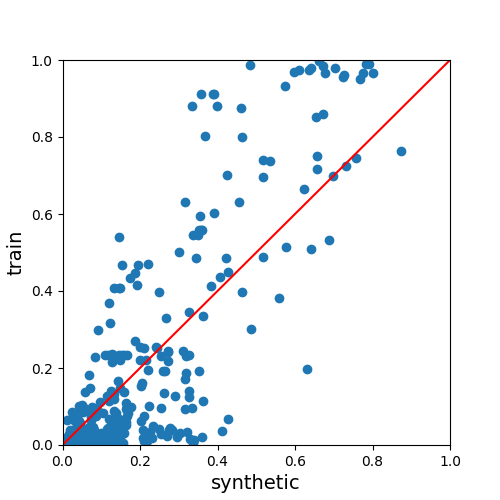
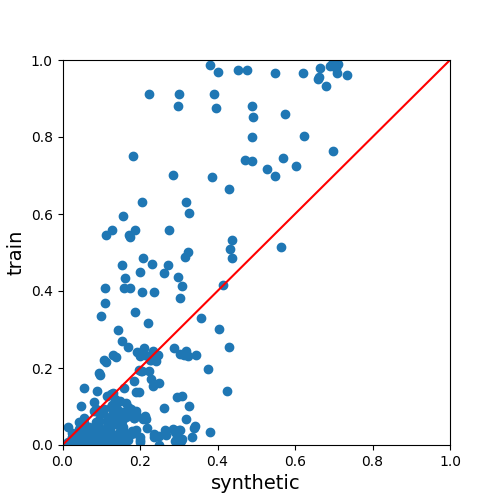
update model inputs

diff --git a/mc_gan/mc_wgan_gp_inference.py b/mc_gan/mc_wgan_gp_inference.py
@@ -34,7 +34,7 @@ except:
 run = wandb.init(
     project="HDistVAE", 
     entity="anseunghwan",
-    tags=['medGAN', 'inference'],
+    tags=['MC-WGAN-GP', 'inference'],
 )
 #%%
 import argparse
@@ -45,7 +45,7 @@ def get_args(debug):
                         help='model number')
     parser.add_argument('--dataset', type=str, default='census', 
                         help='Dataset options: mnist, census, survey')
-    parser.add_argument('--mc', default=True, type=str2bool,
+    parser.add_argument('--mc', default=True, type=bool,
                         help='Multi-Categorical setting')
     
     if debug:
@@ -58,8 +58,8 @@ def main():
     config = vars(get_args(debug=False)) # default configuration
     
     """model load"""
-    model_name = lambda x: f'mc_medGAN_{config["dataset"]}' if x else f'medGAN_{config["dataset"]}'
-    artifact = wandb.use_artifact(f'anseunghwan/HDistVAE/{model_name(config["mc"])}:v{config["num"]}', type='model')
+    model_name = f'mc_Gumbel_{config["dataset"]}'
+    artifact = wandb.use_artifact(f'anseunghwan/HDistVAE/{model_name}:v{config["num"]}', type='model')
     for key, item in artifact.metadata.items():
         config[key] = item
     model_dir = artifact.download()
@@ -68,59 +68,37 @@ def main():
     device = torch.device('cuda:0') if torch.cuda.is_available() else torch.device('cpu')
     config["cuda"] = torch.cuda.is_available()
     wandb.config.update(config)
-    
-    model_module = importlib.import_module('module.model')
-    importlib.reload(model_module)
-
-    generator = getattr(model_module, 'medGANGenerator')(
-        config["embedding_dim"]).to(device)
-    
-    try:
-        generator.load_state_dict(
-            torch.load(
-                model_dir + '/' + [x for x in os.listdir(model_dir) if x.endswith('pth')][0]))
-    except:
-        generator.load_state_dict(
-            torch.load(
-                model_dir + '/' + [x for x in os.listdir(model_dir) if x.endswith('pth')][0], 
-                map_location=torch.device('cpu')))
-    generator.eval()
     #%%
     out = build_dataset(config)
     dataset = out[0]
+    OutputInfo_list = out[3]
 
     if config["dataset"] == "mnist": config["p"] = 784
     else: config["p"] = dataset.p
-    
-    OutputInfo_list = None
-    if config["mc"]:
-        OutputInfo_list = out[3]
     #%%
-    auto_model_module = importlib.import_module('module.model_auto')
-    importlib.reload(auto_model_module)
-    auto_model_name = lambda x: f'dec_mc_medGAN_{config["dataset"]}' if x else f'dec_medGAN_{config["dataset"]}'
-    artifact = wandb.use_artifact(f'anseunghwan/HDistVAE/{auto_model_name(config["mc"])}:v{config["seed"]}', type='model')
-    model_dir = artifact.download()
-    
-    autoencoder = getattr(auto_model_module, 'AutoEncoder')(
-        config, 
-        config["hidden_dims"], 
-        list(reversed(config["hidden_dims"])), 
-        OutputInfo_list=OutputInfo_list).to(device)
-    
+    model_module = importlib.import_module('module.model')
+    importlib.reload(model_module)
+
+    generator = getattr(model_module, 'Generator')(
+        config["embedding_dim"], 
+        [x.dim for x in OutputInfo_list], 
+        hidden_sizes=config["hidden_dims_gen"],
+        bn_decay=0.1).to(device)
+    #%%
     try:
-        autoencoder.decoder.load_state_dict(
+        generator.load_state_dict(
             torch.load(
-                model_dir + '/' + [x for x in os.listdir(model_dir) if x.endswith('pth')][0]))
+                model_dir + '/' + [x for x in os.listdir(model_dir) if x.endswith('pth') and x.startswith('generator')][0]))
     except:
-        autoencoder.decoder.load_state_dict(
+        generator.load_state_dict(
             torch.load(
-                model_dir + '/' + [x for x in os.listdir(model_dir) if x.endswith('pth')][0], 
+                model_dir + '/' + [x for x in os.listdir(model_dir) if x.endswith('pth') and x.startswith('generator')][0], 
                 map_location=torch.device('cpu')))
-    autoencoder.eval()
+        
+    generator.eval()
     #%%
     count_parameters = lambda model: sum(p.numel() for p in model.parameters())
-    num_params = count_parameters(generator) + count_parameters(autoencoder.decoder)
+    num_params = count_parameters(generator)
     print("Number of Parameters:", num_params)
     wandb.log({'Number of Parameters': num_params})
     #%%
@@ -141,13 +119,13 @@ def main():
     with torch.no_grad():
         for _ in range(steps):
             z = torch.randn(config["batch_size"], config["embedding_dim"]).to(device) 
-            data.append(autoencoder.decoder(generator(z), training=False))
+            data.append(generator(z, training=False))
     data = torch.cat(data, dim=0)
     data = data[:n, :]
     
     syndata = postprocess(data, OutputInfo_list, colnames, discrete_dicts, discrete_dicts_reverse)
     #%%
-    metrics = evaluate(syndata, train, test, config, model_name(config["mc"]))
+    metrics = evaluate(syndata, train, test, config, model_name)
     
     print(f"KL: {metrics.KL:.3f}")
     wandb.log({'KL': metrics.KL})

diff --git a/mc_gan/mc_gumbel_inference.py b/mc_gan/mc_gumbel_inference.py
@@ -34,7 +34,7 @@ except:
 run = wandb.init(
     project="HDistVAE", 
     entity="anseunghwan",
-    tags=['medGAN', 'inference'],
+    tags=['MC-Gumbel', 'inference'],
 )
 #%%
 import argparse
@@ -45,7 +45,7 @@ def get_args(debug):
                         help='model number')
     parser.add_argument('--dataset', type=str, default='census', 
                         help='Dataset options: mnist, census, survey')
-    parser.add_argument('--mc', default=True, type=str2bool,
+    parser.add_argument('--mc', default=True, type=bool,
                         help='Multi-Categorical setting')
     
     if debug:
@@ -58,8 +58,8 @@ def main():
     config = vars(get_args(debug=False)) # default configuration
     
     """model load"""
-    model_name = lambda x: f'mc_medGAN_{config["dataset"]}' if x else f'medGAN_{config["dataset"]}'
-    artifact = wandb.use_artifact(f'anseunghwan/HDistVAE/{model_name(config["mc"])}:v{config["num"]}', type='model')
+    model_name = f'mc_Gumbel_{config["dataset"]}'
+    artifact = wandb.use_artifact(f'anseunghwan/HDistVAE/{model_name}:v{config["num"]}', type='model')
     for key, item in artifact.metadata.items():
         config[key] = item
     model_dir = artifact.download()
@@ -68,59 +68,37 @@ def main():
     device = torch.device('cuda:0') if torch.cuda.is_available() else torch.device('cpu')
     config["cuda"] = torch.cuda.is_available()
     wandb.config.update(config)
-    
-    model_module = importlib.import_module('module.model')
-    importlib.reload(model_module)
-
-    generator = getattr(model_module, 'medGANGenerator')(
-        config["embedding_dim"]).to(device)
-    
-    try:
-        generator.load_state_dict(
-            torch.load(
-                model_dir + '/' + [x for x in os.listdir(model_dir) if x.endswith('pth')][0]))
-    except:
-        generator.load_state_dict(
-            torch.load(
-                model_dir + '/' + [x for x in os.listdir(model_dir) if x.endswith('pth')][0], 
-                map_location=torch.device('cpu')))
-    generator.eval()
     #%%
     out = build_dataset(config)
     dataset = out[0]
+    OutputInfo_list = out[3]
 
     if config["dataset"] == "mnist": config["p"] = 784
     else: config["p"] = dataset.p
-    
-    OutputInfo_list = None
-    if config["mc"]:
-        OutputInfo_list = out[3]
     #%%
-    auto_model_module = importlib.import_module('module.model_auto')
-    importlib.reload(auto_model_module)
-    auto_model_name = lambda x: f'dec_mc_medGAN_{config["dataset"]}' if x else f'dec_medGAN_{config["dataset"]}'
-    artifact = wandb.use_artifact(f'anseunghwan/HDistVAE/{auto_model_name(config["mc"])}:v{config["seed"]}', type='model')
-    model_dir = artifact.download()
-    
-    autoencoder = getattr(auto_model_module, 'AutoEncoder')(
-        config, 
-        config["hidden_dims"], 
-        list(reversed(config["hidden_dims"])), 
-        OutputInfo_list=OutputInfo_list).to(device)
-    
+    model_module = importlib.import_module('module.model')
+    importlib.reload(model_module)
+
+    generator = getattr(model_module, 'Generator')(
+        config["embedding_dim"], 
+        [x.dim for x in OutputInfo_list], 
+        hidden_sizes=config["hidden_dims_gen"],
+        bn_decay=0.1).to(device)
+    #%%
     try:
-        autoencoder.decoder.load_state_dict(
+        generator.load_state_dict(
             torch.load(
-                model_dir + '/' + [x for x in os.listdir(model_dir) if x.endswith('pth')][0]))
+                model_dir + '/' + [x for x in os.listdir(model_dir) if x.endswith('pth') and x.startswith('generator')][0]))
     except:
-        autoencoder.decoder.load_state_dict(
+        generator.load_state_dict(
             torch.load(
-                model_dir + '/' + [x for x in os.listdir(model_dir) if x.endswith('pth')][0], 
+                model_dir + '/' + [x for x in os.listdir(model_dir) if x.endswith('pth') and x.startswith('generator')][0], 
                 map_location=torch.device('cpu')))
-    autoencoder.eval()
+        
+    generator.eval()
     #%%
     count_parameters = lambda model: sum(p.numel() for p in model.parameters())
-    num_params = count_parameters(generator) + count_parameters(autoencoder.decoder)
+    num_params = count_parameters(generator)
     print("Number of Parameters:", num_params)
     wandb.log({'Number of Parameters': num_params})
     #%%
@@ -141,13 +119,13 @@ def main():
     with torch.no_grad():
         for _ in range(steps):
             z = torch.randn(config["batch_size"], config["embedding_dim"]).to(device) 
-            data.append(autoencoder.decoder(generator(z), training=False))
+            data.append(generator(z, training=False))
     data = torch.cat(data, dim=0)
     data = data[:n, :]
     
     syndata = postprocess(data, OutputInfo_list, colnames, discrete_dicts, discrete_dicts_reverse)
     #%%
-    metrics = evaluate(syndata, train, test, config, model_name(config["mc"]))
+    metrics = evaluate(syndata, train, test, config, model_name)
     
     print(f"KL: {metrics.KL:.3f}")
     wandb.log({'KL': metrics.KL})

diff --git a/mc_gan/module/model_auto.py b/mc_gan/module/model_auto.py
@@ -65,7 +65,7 @@ class CategoricalDecoder(nn.Module):
             self.output_layers.append(nn.Linear(previous_layer_size, info.dim))
             self.output_activations.append(CategoricalActivation())
 
-    def forward(self, input, training=True, temperature=None, concat=True):
+    def forward(self, input, training=True, temperature=0.666, concat=True):
         hidden = self.hidden_layers(input)
         """Multi-Categorical Setting"""
         outputs = []
@@ -122,7 +122,7 @@ class AutoEncoder(nn.Module):
         self.encoder = Encoder(
             config["p"], config["embedding_dim"], hidden_sizes=encoder_hidden_sizes)
 
-        if OutputInfo_list:
+        if self.OutputInfo_list is not None:
             self.decoder = CategoricalDecoder(
                 config["embedding_dim"], hidden_sizes=decoder_hidden_sizes, OutputInfo_list=OutputInfo_list)
         else:
@@ -131,9 +131,9 @@ class AutoEncoder(nn.Module):
 
     def forward(self, input, training=True, temperature=0.666, concat=True):
         emb = self.encoder(input)
-        if self.OutputInfo_list:
+        if self.OutputInfo_list is not None:
             recon = self.decoder(emb, training=training, temperature=temperature, concat=concat)
         else:
-            recon = self.decoder(emb)
+            recon = self.decoder(emb, training=training)
         return emb, recon
 #%%

diff --git a/mc_gan/mc_arae_inference.py b/mc_gan/mc_arae_inference.py
@@ -34,7 +34,7 @@ except:
 run = wandb.init(
     project="HDistVAE", 
     entity="anseunghwan",
-    tags=['ARAE', 'inference'],
+    tags=['MC-ARAE', 'inference'],
 )
 #%%
 import argparse
@@ -43,7 +43,7 @@ def get_args(debug):
     
     parser.add_argument('--num', type=int, default=0, 
                         help='model number')
-    parser.add_argument('--dataset', type=str, default='survey', 
+    parser.add_argument('--dataset', type=str, default='census', 
                         help='Dataset options: mnist, census, survey')
     parser.add_argument('--mc', default=True, type=bool,
                         help='Multi-Categorical setting')
@@ -115,7 +115,7 @@ def main():
         
     autoencoder.eval(), generator.eval()
     #%%
-    count_parameters = lambda model: sum(p.numel() for p in model.parameters() if p.requires_grad)
+    count_parameters = lambda model: sum(p.numel() for p in model.parameters())
     num_params = count_parameters(generator) + count_parameters(autoencoder.decoder)
     print("Number of Parameters:", num_params)
     wandb.log({'Number of Parameters': num_params})

diff --git a/mc_gan/module/train.py b/mc_gan/module/train.py
@@ -46,7 +46,7 @@ def train_medGAN(dataloader, autoencoder, discriminator, generator, config, opti
         if config["mc"]:
             fake_features = autoencoder.decoder(fake_code, training=True, temperature=config["tau"], concat=True).detach()
         else:
-            fake_features = autoencoder.decoder(fake_code).detach()
+            fake_features = autoencoder.decoder(fake_code, training=True).detach()
         fake_pred = discriminator(fake_features)
         fake_loss = criterion(fake_pred, label_zeros)
         fake_loss.backward()
@@ -65,7 +65,7 @@ def train_medGAN(dataloader, autoencoder, discriminator, generator, config, opti
         if config["mc"]:
             gen_features = autoencoder.decoder(gen_code, training=True, temperature=config["tau"], concat=True)
         else:
-            gen_features = autoencoder.decoder(gen_code)
+            gen_features = autoencoder.decoder(gen_code, training=True)
         gen_pred = discriminator(gen_features)
 
         smooth_label_ones = Variable(torch.FloatTensor(len(x_batch)).uniform_(0.9, 1)).to(device)

diff --git a/mc_gan/auto.py b/mc_gan/auto.py
@@ -58,7 +58,7 @@ def get_args(debug):
                         help='learning rate')
     parser.add_argument('--l2reg', default=0.001, type=float,
                         help='L2 regularization: weight decay')
-    parser.add_argument('--tau', default=0, type=float,
+    parser.add_argument('--tau', default=0.666, type=float,
                         help='temperature in Gumbel-Softmax')
     
     # parser.add_argument('--mc', default=False, type=str2bool,

diff --git a/mc_gan/module/train_auto.py b/mc_gan/module/train_auto.py
@@ -25,7 +25,7 @@ def train_function(trainloader, autoencoder, optimizer, config, device, epoch):
         if config["mc"]:
             _, xhat = autoencoder(x_batch, training=True, temperature=tau, concat=False)
         else:
-            _, xhat = autoencoder(x_batch)
+            _, xhat = autoencoder(x_batch, training=True)
         
         if config["mc"]:
             st = 0
